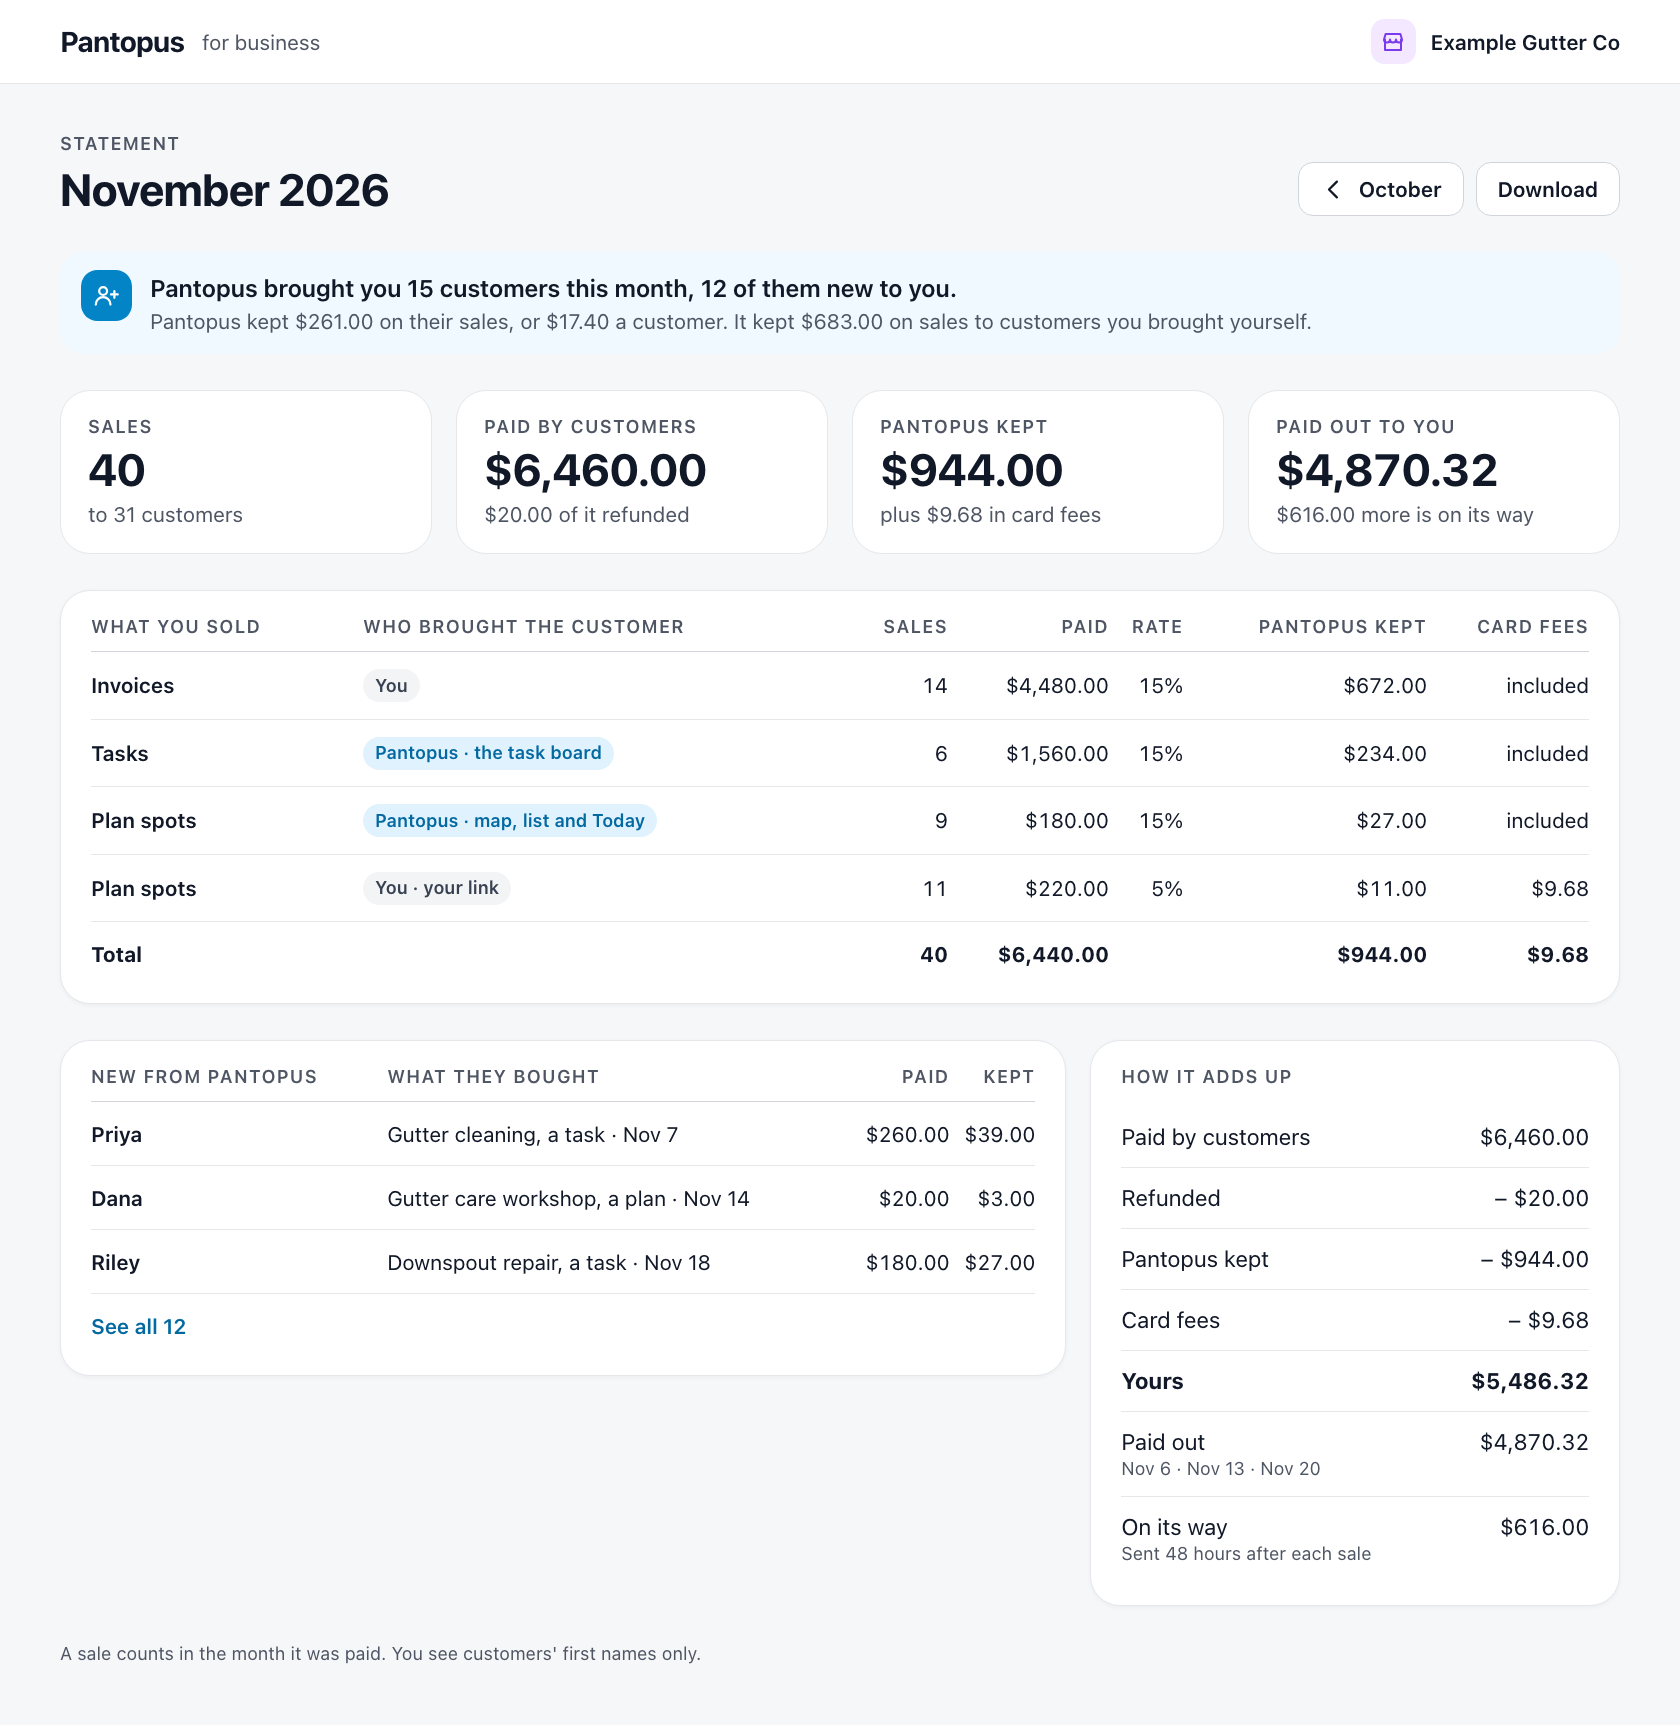
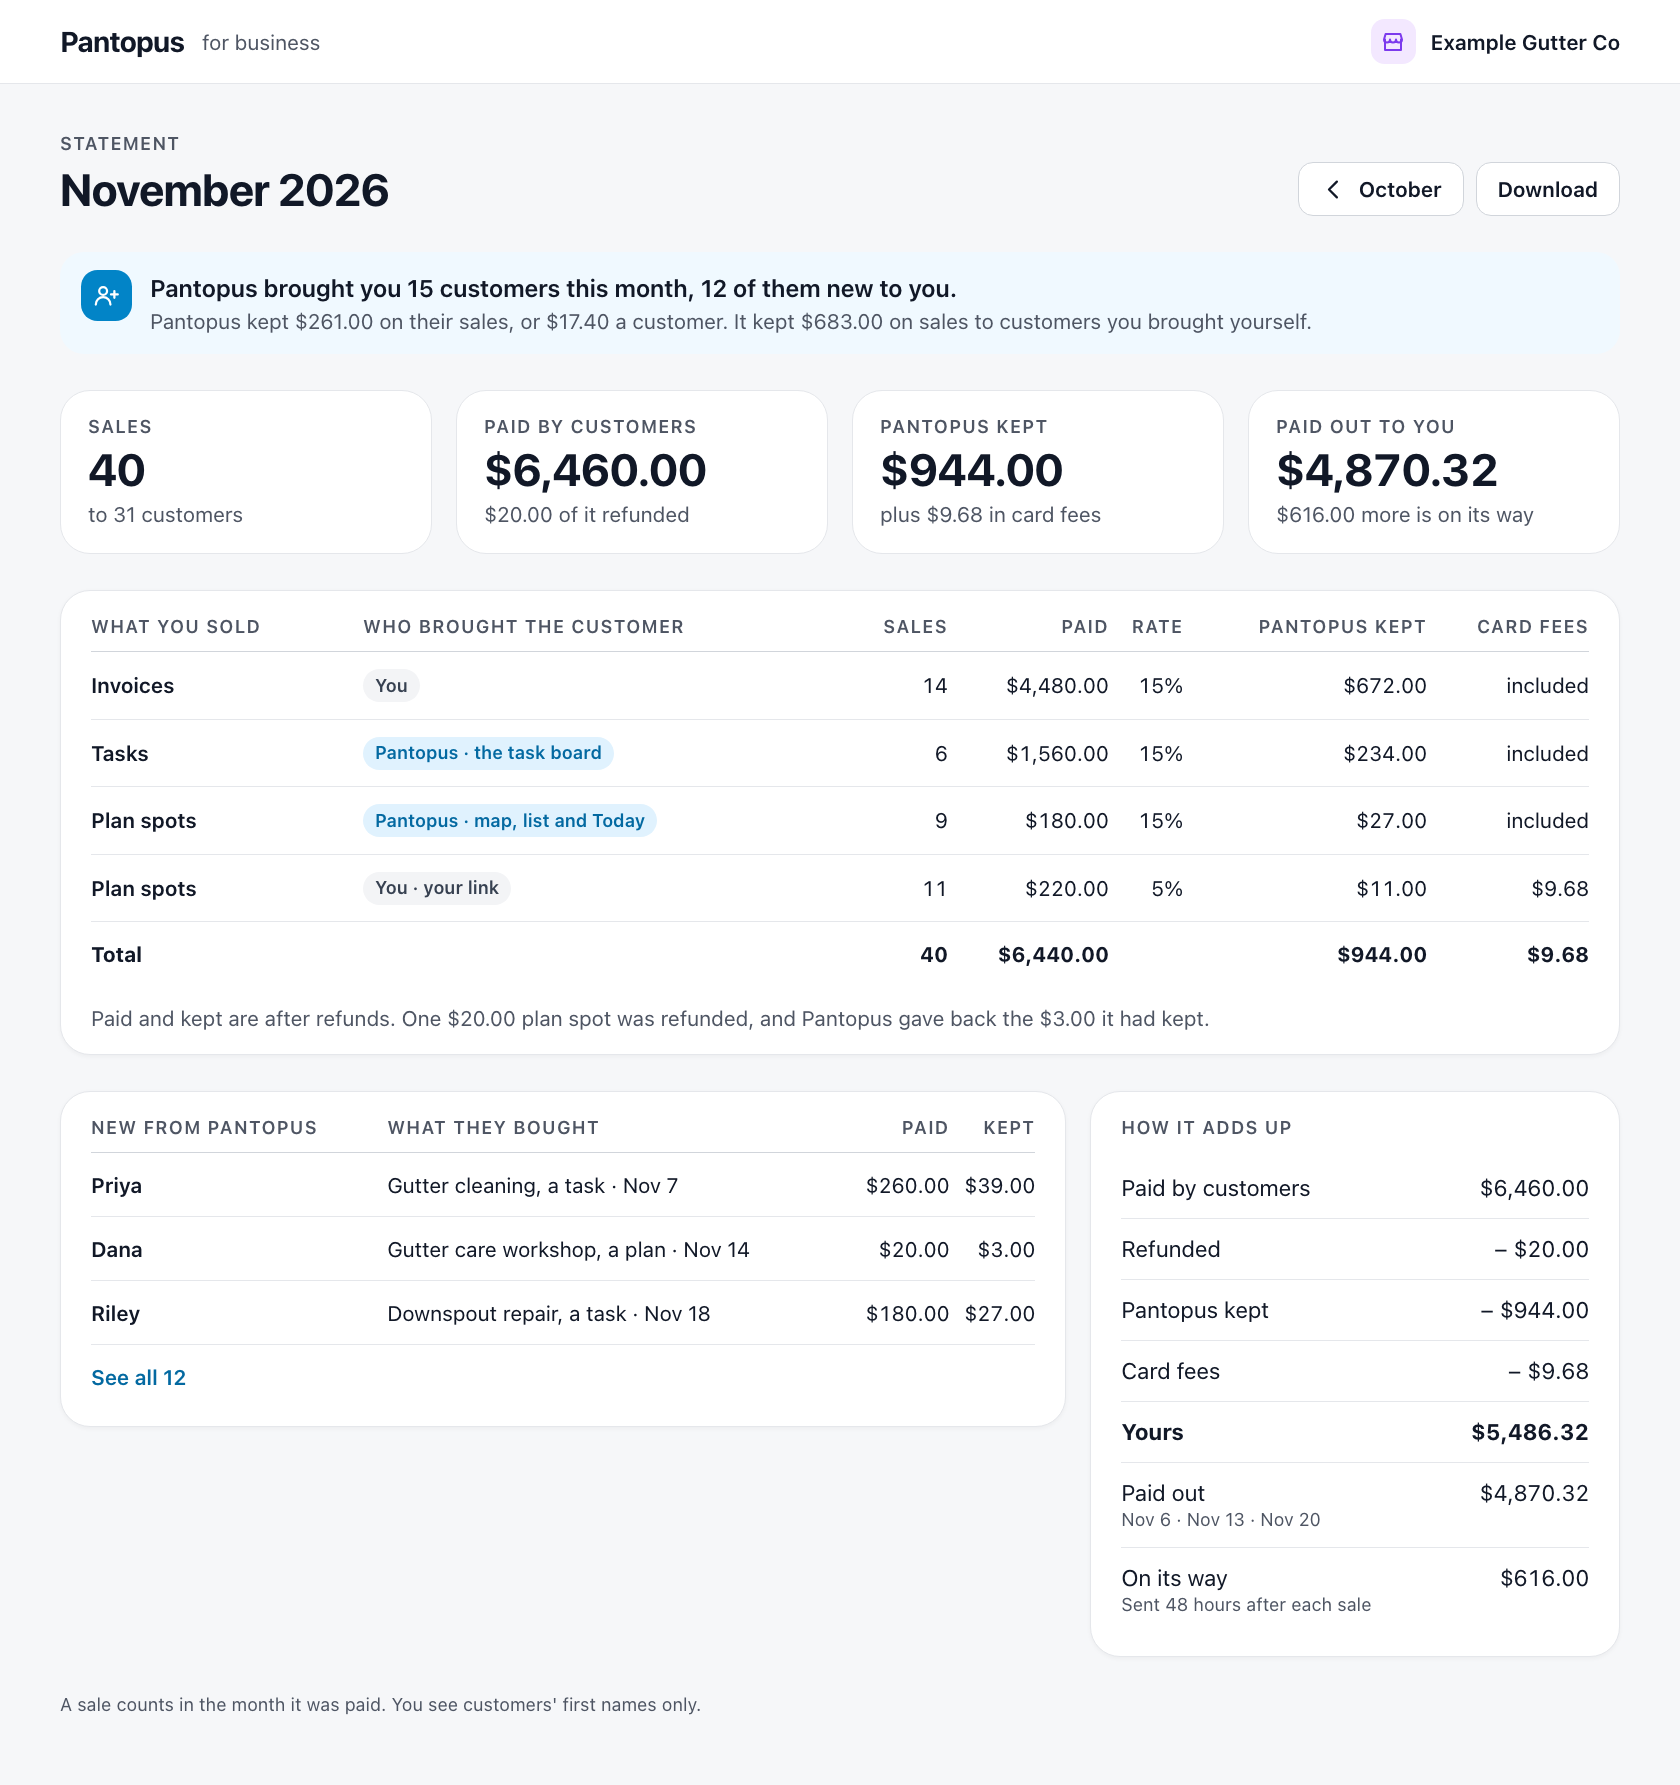
Business graph: correct seven boards where they disagreed
- F1 (the file) shows only lines a measured source carries: no hours or
  year started from a "business listing"; Hours is "None found" with
  "Add your hours"; the surety and insurer are named.
- Customers agree across F2, M1, M3, P2 and U1 (Priya, Maya, Sam, Jordan),
  and F2's "today" is Nov 12, so the bond ends in 22 days.
- M2's banner has the $683.00 line M1 has; M1 and M2 say paid and kept are
  after the refund.
- K6's chosen option is business violet; its note is in plain words.
- 06-design lists the corrections; README and NEXT_STEPS no longer say the
  boards are undrawn.

diff --git a/docs/product/business-graph/06-design.md b/docs/product/business-graph/06-design.md
@@ -2,7 +2,9 @@
 
 November 11, 2026 · Status: all fifteen boards are drawn, in light and dark.
 The founder approved the sample (K2) on November 11 and has not yet looked at
-the other fourteen.
+the other fourteen. Seven boards were corrected on November 12 (see
+[Corrections, November 12](#corrections-november-12)); the pictures below are
+the corrected ones.
 
 The boards are on the private Design canvas
 [The business graph](https://claude.ai/artifact/A3Vr8tG3uswcd8C678nKUe), on
@@ -28,8 +30,8 @@ side by side. Sample data is made up; no real business or person appears.
 | K6 | Other ways to prove | Email at your domain; a mailed code; a document | 3 |
 | P1 | The public page | Licence, bond and insurance lines with the state's date; a line that expires soon; a suspended line | 2 |
 | P2 | A review with proof | "Paid customer" on a review | 6 |
-| F1 | The file | "Here is what the public record says about you": each line with source, date, Confirm, Fix, Hide | 4 |
-| F2 | An alert | "Your bond ends in 23 days", in the notices list and as a push | 4 |
+| F1 | The file | "Here is what the public record says about you": each line with source, date, Confirm, Fix, Hide; only lines a measured source carries | 4 |
+| F2 | An alert | "Your bond ends in 22 days", in the notices list and as a push | 4 |
 | M1 | The statement | A month across every feature: sales, who Pantopus brought, what it kept and why, payouts (wide, for the web) | Piece 4 |
 | M2 | The statement on a phone | The same month, folded | Piece 4 |
 | M3 | People you know | The customer list: first name, how they came, what they bought | Piece 3 |
@@ -82,8 +84,13 @@ when a bond ends within 30 days and when the state has suspended the licence.
 
 ![P2 · A review with Paid customer](screens/p2-review-paid-customer.png)
 
-**F1, The file.** Five lines in their four states: confirmed, found, fixed by
-the owner, hidden.
+**F1, The file.** Six lines in five states: confirmed, found, fixed by the
+owner, none found, hidden. Every line is one a measured source carries
+([07-data-design.md](07-data-design.md)): the licence, the bond with its surety
+and the insurance with its insurer from Washington L&I; the phone; the website,
+the category and a second phone from a business listing. No source measured has
+opening hours, so the Hours line says "None found" and asks the owner to add
+them.
 
 ![F1 · The file](screens/f1-the-file.png)
 
@@ -95,7 +102,8 @@ the owner, hidden.
 
 **M1, The statement, on the web.** The sample month adds up: $6,460.00 paid,
 less $20.00 refunded, $944.00 kept by Pantopus and $9.68 in card fees, leaves
-$5,486.32, of which $4,870.32 is paid out and $616.00 is on its way.
+$5,486.32, of which $4,870.32 is paid out and $616.00 is on its way. The
+table's paid and kept are after the refund, and the board says so under it.
 
 ![M1 · The statement, on the web](screens/m1-the-statement-web.png)
 
@@ -147,6 +155,37 @@ The founder has not seen these. Each is a drawing choice, open until confirmed.
   tab. Each opens from another screen and has a back button.
 - **P1 and K5 are wide boards**, so one picture can hold a screen and its
   other states.
+- **The file names the surety and the insurer** beside the bond and the
+  insurance, and shows an empty Hours line as "None found" with "Add your
+  hours" (added November 12).
+
+## Corrections, November 12
+
+Reading the boards side by side turned up places where they disagreed with
+each other or with the measured data. Fixed on these boards, light and dark:
+
+- **F1 showed lines no source has.** Its Hours ("Monday to Friday, 8 AM to
+  5 PM") and Year started (2009) were labelled "Business listing", but the
+  data design found no source with opening hours and none with a year started
+  for a Washington business. Hours is now "None found" with "Add your hours";
+  Year started is gone. The file gained the surety and the insurer from the
+  state's bond and insurance files, the listing's category, and a hidden
+  second phone as the hidden example.
+- **The same customers now agree on F2, M1, M3, P2 and U1.** Priya paid once,
+  for a task on November 7 (M3 and U1 had said three times, last by invoice).
+  Maya, the business's own invoice customer, paid the invoice in F2. Sam wrote
+  the October review that mentions an invoice (it was Dana's, but Dana first
+  paid on November 14, after it). Jordan was first met in October, after his
+  September review, so it rightly has no "Paid customer". F2's "today" is
+  November 12, the day after the business was verified, so the bond ends in 22
+  days.
+- **M2's banner** now says what Pantopus kept on the business's own customers
+  ($683.00), as M1's does.
+- **M1 and M2** say that paid and kept are after the $20.00 refund; the table
+  totals $6,440.00 against $6,460.00 paid.
+- **K6's chosen option** is business violet, as the rest of the wizard is, not
+  the person blue. Its note now says plainly that without a matching record the
+  page isn't marked verified, in place of "counts toward your standing".
 
 ## Rules the boards keep
 

diff --git a/NEXT_STEPS.md b/NEXT_STEPS.md
@@ -989,7 +989,7 @@ The map, the two contracts, the build plan and the session briefs are in [docs/p
 - [ ] An accountant reads the business's own rate, where the business pays the card fee.
 - [ ] Before business file step 3: create the private storage bucket for the catalog and its key, and a Foursquare Places Portal account for the open places data.
 - [ ] After phase A merges: run the customer record's first fill on production. The script prints what it would write first.
-- [ ] Look at the sample board, then the rest ([the list](docs/product/business-graph/06-design.md)).
+- [ ] Look at the other fourteen boards and the drawing calls ([the list](docs/product/business-graph/06-design.md)). The sample, K2, is approved. Seven boards were corrected on November 12.
 
 ## Background backlog
 

diff --git a/docs/product/business-graph/README.md b/docs/product/business-graph/README.md
@@ -47,8 +47,9 @@ Beside this folder:
   statement covers every feature from its first day.
 - **Open:** the shared contract's calls S1 to S9; the business file contract's
   calls B1 to B9, among them the second new table, `PublicBusinessRecord`.
-- **Not done:** the screens (one sample comes first); the lawyer's and
-  accountant's reads; the by-hand test with crews; any build.
+- **Not done:** the founder's look at fourteen of the fifteen boards (all are
+  drawn; the sample, K2, is approved); the lawyer's and accountant's reads; the
+  by-hand test with crews; any build.
 
 The founder's steps are in [NEXT_STEPS](../../../NEXT_STEPS.md), "The business
 graph".
